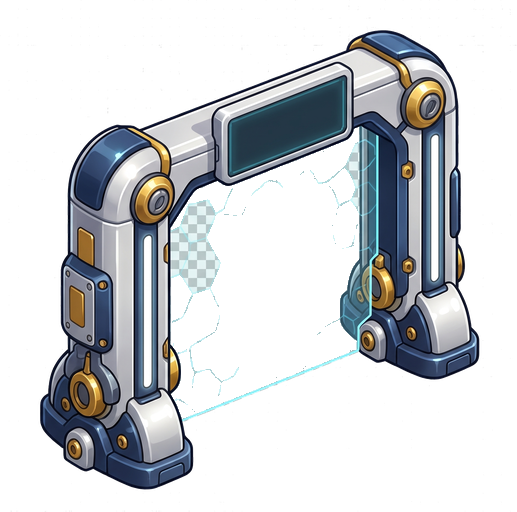
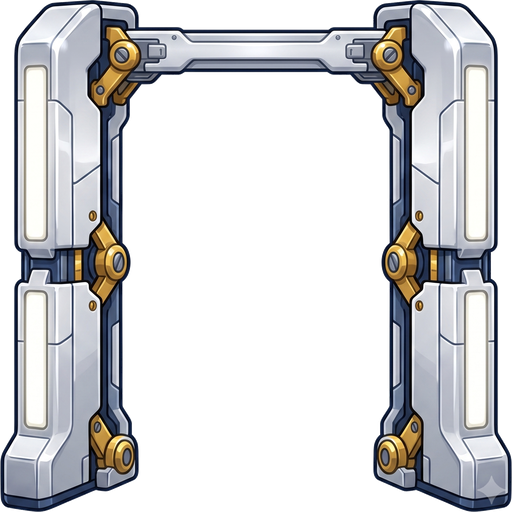
feat(rush): 정면 게이트·병사 스프라이트 반입 + 기존 게임 조향 이식(호버 추종·followSpeed 9)

diff --git a/rush/balance.js b/rush/balance.js
@@ -2,7 +2,7 @@
 export const BAL = {
   //  판 = 5구간 × 900. 구간마다 신규 적 2종 합류(누적), 구간 끝(900의 배수)마다 전용 보스.
   track: { length: 4500, zoneLen: 900, zones: 5, scrollSpeed: 190, gateEvery: 300, firstGateZ: 240, waveEvery: 150 },
-  squad: { y: 640, moveSpeed: 420, followRate: 10, unitSpacingX: 22, unitSpacingY: 18, drawCap: 130, startCount: 1,
+  squad: { y: 640, moveSpeed: 420, followRate: 9, unitSpacingX: 22,   // followRate=기존 게임 followSpeed 와 동일값 unitSpacingY: 18, drawCap: 130, startCount: 1,
            heroSize: 46, soldierSize: 22,
            fireInterval: 0.5, bulletSpeed: 700, bulletDmg: 1, dmgPerTroop: 0.02, touchLossPerHit: 1 },
   tiers: [1, 25, 75, 150, 300],          // M1~M5 병력 임계

diff --git a/rush/main.js b/rush/main.js
@@ -205,7 +205,13 @@ export function boot() {
     pointer.x = x;
     onPress(x, y);
   });
-  canvas.addEventListener('pointermove', (e) => { if (pointer.down) pointer.x = toLogical(e)[0]; });
+  //  기존 네온함대 입력 방식(js/input.js): 마우스는 호버만으로 조향, 터치는 드래그 중에만
+  canvas.addEventListener('pointermove', (e) => {
+    if (e.pointerType === 'mouse' || pointer.down) {
+      pointer.x = toLogical(e)[0];
+      if (state === 'run') run.tx = clampX(pointer.x);
+    }
+  });
   addEventListener('pointerup', () => { pointer.down = false; });
   addEventListener('keydown', (e) => {
     keys[e.code] = true;
